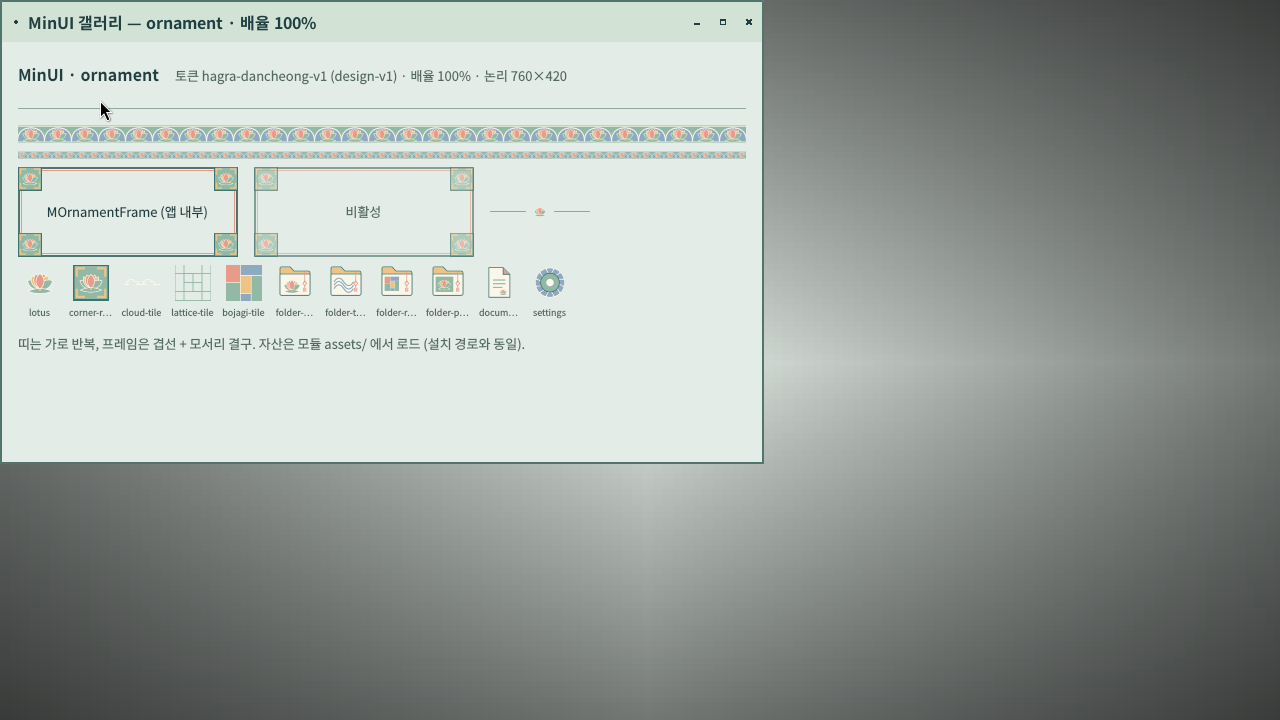
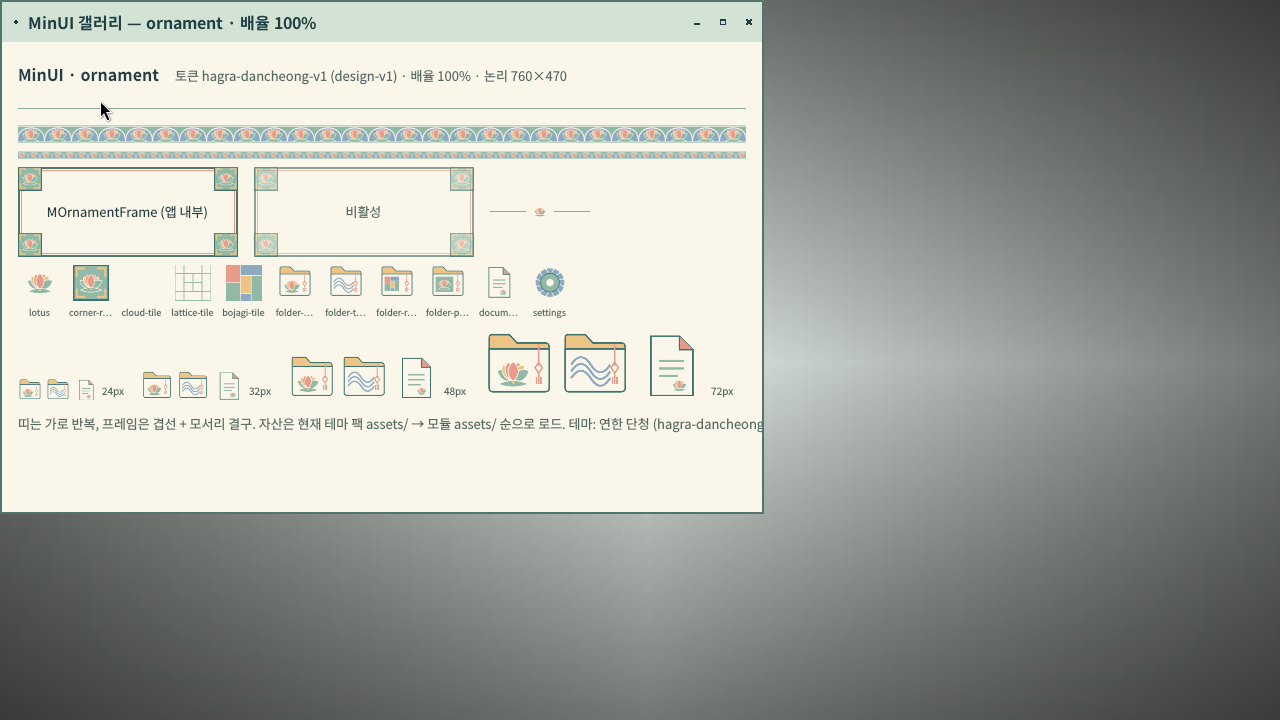
H2: boot test checks in-image theme switch and restore after reboot; contrast table; gallery folder sizes
- tests/image/boot_test.py: hagra-theme list/apply deep → saved in ~/.config/minos/theme.conf → panel checked with deep tokens;
  after reboot the selection is restored, then reset to default and checked again.
- tests/shell/check_screenshot.py: load_tokens() to switch the reference token set.
- Gallery ornament: folder/document icons at 24/32/48/72 px.
- UI_FOUNDATION §7.3: role-pair contrast ratios for both themes.

Claude-Session: https://claude.ai/code/session_01UHELcFjk2sEME5NpDwdxkP

diff --git a/libs/minui/gallery/Gallery.qml b/libs/minui/gallery/Gallery.qml
@@ -10,7 +10,7 @@ Window {
     readonly property string mixed: "보고서_2026년3분기_v2 Final (김민수) 10월23일.pdf"
     readonly property string longText: "하그라는 한국의 미감과 생활에 대한 이해를 바탕으로, 누구나 자기 일을 편안하게 해낼 수 있도록 만드는 운영체제입니다. This sentence mixes Hangul, Latin letters and digits 1234567890 to verify line wrapping, baseline alignment and glyph fallback across fonts at 100 %, 150 % and 200 % scale."
     title: "MinUI 갤러리 — " + section + " · 배율 " + Math.round(previewScale * 100) + "%"
-    width: 760; height: 420
+    width: 760; height: 470
     color: Theme.surface   // 본문 면. bg 는 바탕화면 색이라 어두운 테마에서 글자가 읽히지 않는다
     visible: true
 
@@ -20,7 +20,7 @@ Window {
 
         Row { spacing: Theme.paddingLarge
             MLabel { text: "MinUI · " + win.section; font.bold: true; font.pixelSize: Theme.fontSizeTitle }
-            MLabel { text: "토큰 " + Theme.tokenSet + " (" + Theme.tokenStatus + ") · 배율 " + Math.round(previewScale * 100) + "% · 논리 760×420"; muted: true; font.pixelSize: Theme.fontSizeSmall; anchors.verticalCenter: parent.verticalCenter }
+            MLabel { text: "토큰 " + Theme.tokenSet + " (" + Theme.tokenStatus + ") · 배율 " + Math.round(previewScale * 100) + "% · 논리 760×470"; muted: true; font.pixelSize: Theme.fontSizeSmall; anchors.verticalCenter: parent.verticalCenter }
         }
         MSeparator { width: parent.width }
 
@@ -169,7 +169,14 @@ Window {
                         MIcon { id: ai; name: modelData; size: 36; anchors.horizontalCenter: parent.horizontalCenter }
                         MLabel { text: ai.ready ? modelData : modelData + " ✗"; font.pixelSize: 9; color: ai.ready ? Theme.textMuted : Theme.danger; width: 43; horizontalAlignment: Text.AlignHCenter } } }
             }
-            MLabel { text: "띠는 가로 반복, 프레임은 겹선 + 모서리 결구. 자산은 모듈 assets/ 에서 로드 (설치 경로와 동일)."; muted: true; font.pixelSize: Theme.fontSizeSmall }
+            Row { spacing: Theme.paddingLarge   // 폴더 실루엣·종류 표시의 크기별 가독성 (24/32/48/72)
+                Repeater { model: [24, 32, 48, 72]; delegate: Row { required property int modelData; spacing: 4; anchors.bottom: parent.bottom
+                    MIcon { name: "folder-writing"; size: modelData; anchors.bottom: parent.bottom }
+                    MIcon { name: "folder-translation"; size: modelData; anchors.bottom: parent.bottom }
+                    MIcon { name: "document"; size: modelData; anchors.bottom: parent.bottom }
+                    MLabel { text: modelData + "px"; muted: true; font.pixelSize: 10; anchors.bottom: parent.bottom } } }
+            }
+            MLabel { text: "띠는 가로 반복, 프레임은 겹선 + 모서리 결구. 자산은 현재 테마 팩 assets/ → 모듈 assets/ 순으로 로드. 테마: " + Theme.themeName + " (" + Theme.themeId + ")"; muted: true; font.pixelSize: Theme.fontSizeSmall; wrap: true; width: parent.width }
         }
         // ---- 조작 아이콘 ----
         Column { visible: win.section === "icons"; spacing: Theme.paddingLarge; width: parent.width

diff --git a/tests/image/boot_test.py b/tests/image/boot_test.py
@@ -233,6 +233,26 @@ def main():
         check_screenshot.check_foot(Image.open(png).convert("RGB"))
         q.sh("pkill foot")
 
+        step("테마 전환: 깊은 단청 선택 (사용자 설정 저장, 셸·labwc·배경 즉시 반영)")
+        asmin_home = "sudo -u min env HOME=/home/min XDG_RUNTIME_DIR=/run/user/1000 WAYLAND_DISPLAY=wayland-0 "
+        deep_tokens = os.path.join(REPO, "build", "themes", "hagra-dancheong-deep", "tokens.json")
+        light_tokens = os.path.join(REPO, "design", "tokens", "hagra.tokens.json")
+        rc, out = q.sh(asmin_home + "hagra-theme list")
+        print("   themes:\n      " + out.replace("\n", "\n      "))
+        check("hagra-dancheong-deep" in out and "hagra-dancheong-light" in out, "both theme packs installed in the image")
+        rc, out = q.sh(asmin_home + "hagra-theme apply hagra-dancheong-deep")
+        check(rc == 0 and out.strip().endswith("hagra-dancheong-deep"), f"apply deep theme: {out.strip()}")
+        time.sleep(10)
+        rc, out = q.sh("cat /home/min/.config/minos/theme.conf")
+        check("theme=hagra-dancheong-deep" in out, "selection saved in ~/.config/minos/theme.conf")
+        png = q.screendump("04-theme-deep")
+        if os.path.exists(deep_tokens):
+            check_screenshot.load_tokens(deep_tokens)
+            check_screenshot.check_panel(Image.open(png).convert("RGB"))
+            check_screenshot.load_tokens(light_tokens)
+        else:
+            print("   (build/themes 없음: 깊은 단청 픽셀 검사 건너뜀)")
+
         step("전원: logind Reboot 경로 (minos-shell 와 동일한 D-Bus 호출)")
         if not args.skip_reboot:
             q.child.sendline("busctl call org.freedesktop.login1 /org/freedesktop/login1 org.freedesktop.login1.Manager Reboot b false")
@@ -251,6 +271,29 @@ def main():
                     break
                 time.sleep(5)
             check(rc == 0, f"second boot session: {out}")
+
+            step("테마 복원 확인: 재부팅 후 깊은 단청 유지 → 기본 테마로 복귀")
+            deadline = time.time() + 120
+            while time.time() < deadline:
+                rc, out = q.sh("cat /run/user/1000/minos-shell.log")
+                if "configured" in out:
+                    break
+                time.sleep(5)
+            rc, out = q.sh(asmin_home + "hagra-theme current")
+            check(out.strip().endswith("hagra-dancheong-deep"), f"theme restored after reboot: {out.strip()}")
+            rc, out = q.sh("tail -3 /home/min/.local/state/minos/session.log")
+            print("   session log:\n      " + out.replace("\n", "\n      "))
+            time.sleep(3)
+            png = q.screendump("05-theme-deep-restored")
+            if os.path.exists(deep_tokens):
+                check_screenshot.load_tokens(deep_tokens)
+                check_screenshot.check_panel(Image.open(png).convert("RGB"))
+                check_screenshot.load_tokens(light_tokens)
+            rc, out = q.sh(asmin_home + "hagra-theme reset")
+            check(out.strip().endswith("hagra-dancheong-light"), f"reset to default: {out.strip()}")
+            time.sleep(10)
+            png = q.screendump("06-theme-light-again")
+            check_screenshot.check_panel(Image.open(png).convert("RGB"))
 
         step("전원: PowerOff")
         q.child.sendline("busctl call org.freedesktop.login1 /org/freedesktop/login1 org.freedesktop.login1.Manager PowerOff b false")

diff --git a/tests/shell/check_screenshot.py b/tests/shell/check_screenshot.py
@@ -15,8 +15,6 @@ REPO = os.path.dirname(os.path.dirname(os.path.dirname(os.path.abspath(__file__)
 _tok_path = os.environ.get("HAGRA_CHECK_TOKENS") or os.path.join(REPO, "design", "tokens", "hagra.tokens.json")
 if "--tokens" in sys.argv:
     _i = sys.argv.index("--tokens"); _tok_path = sys.argv[_i + 1]; del sys.argv[_i:_i + 2]
-with open(_tok_path, encoding="utf-8") as f:
-    TOK = json.load(f)
 
 
 def rgb(hexstr):
@@ -26,20 +24,28 @@ def rgb(hexstr):
     return tuple(int(h[i:i + 2], 16) for i in (0, 2, 4))
 
 
-C = TOK["color"]
-SURFACE = rgb(C["surface"])
-PANEL = rgb(C.get("panel", C["surface"]))          # 패널 바탕 (역할 토큰; 없으면 surface)
-PANEL_DARK = (0.299 * PANEL[0] + 0.587 * PANEL[1] + 0.114 * PANEL[2]) < 128
-OCHRE = rgb(C.get("ochre", C["accent"]))
-BG = rgb(C["bg"])
-BORDER = rgb(C["border"])
-BORDER_STRONG = rgb(C["borderStrong"])
-ACCENT = rgb(C["accent"])
-SELECTION = rgb(C["selection"])
-S = TOK["size"]
-PANEL_H = S["panelHeight"]
-BAND_H = S["panelBandHeight"]
-BORDER_W = S["borderWidth"]
+def load_tokens(path):
+    """검사 기준 토큰을 바꾼다 (테마별 검사: 부팅 테스트가 깊은 단청 전환 뒤 호출)."""
+    global TOK, C, SURFACE, PANEL, PANEL_DARK, OCHRE, BG, BORDER, BORDER_STRONG, ACCENT, SELECTION, S, PANEL_H, BAND_H, BORDER_W
+    with open(path, encoding="utf-8") as f:
+        TOK = json.load(f)
+    C = TOK["color"]
+    SURFACE = rgb(C["surface"])
+    PANEL = rgb(C.get("panel", C["surface"]))          # 패널 바탕 (역할 토큰; 없으면 surface)
+    PANEL_DARK = (0.299 * PANEL[0] + 0.587 * PANEL[1] + 0.114 * PANEL[2]) < 128
+    OCHRE = rgb(C.get("ochre", C["accent"]))
+    BG = rgb(C["bg"])
+    BORDER = rgb(C["border"])
+    BORDER_STRONG = rgb(C["borderStrong"])
+    ACCENT = rgb(C["accent"])
+    SELECTION = rgb(C["selection"])
+    S = TOK["size"]
+    PANEL_H = S["panelHeight"]
+    BAND_H = S["panelBandHeight"]
+    BORDER_W = S["borderWidth"]
+
+
+load_tokens(_tok_path)
 LAUNCHER_W, LAUNCHER_H = 360, 440
 POWER_W = 240
 

diff --git a/docs/UI_FOUNDATION.md b/docs/UI_FOUNDATION.md
@@ -255,6 +255,39 @@ tools/theme      hagra-theme CLI     list | current | apply ID | reset | sync | 
 `Theme.isDark(color)` 로 면을 판정해 `onDark`/`light` 를 정한다. 연한 단청에서는 모두 밝은 면이므로 변형이 쓰이지 않는다(H1 캡처와 픽셀 동일).
 창 본문 바탕은 어느 테마에서도 `surface` 다. `bg` 는 바탕화면 색이므로 창 본문에 쓰지 않는다 (H2 에서 갤러리·메모 장면·창 모형을 수정).
 
+#### 역할별 대비 (WCAG 상대 휘도, 토큰 값으로 계산; 2026-10-26)
+
+| 테마 | 역할 | 바탕 | 전경 | 대비 |
+|---|---|---|---|---|
+| 연한 단청 | 본문 | #FAF6EA | #203F42 | 10.50:1 |
+| 연한 단청 | 보조 본문 | #FAF6EA | #536963 | 5.45:1 |
+| 연한 단청 | 비활성 글자 | #FAF6EA | #79867E | 3.52:1 |
+| 연한 단청 | 패널 | #FAF6EA | #203F42 | 10.50:1 |
+| 연한 단청 | 패널 보조 | #FAF6EA | #536963 | 5.45:1 |
+| 연한 단청 | 사이드바 | #E3ECE6 | #203F42 | 9.40:1 |
+| 연한 단청 | 선택 | #F8E7B8 | #203F42 | 9.25:1 |
+| 연한 단청 | 활성 제목 | #D2E2D5 | #203F42 | 8.42:1 |
+| 연한 단청 | 비활성 제목 | #E5EBE0 | #536963 | 4.85:1 |
+| 연한 단청 | 기본 버튼 | #28717B | #FFFFFF | 5.62:1 |
+| 연한 단청 | 오류 글자 | #FAF6EA | #A54042 | 5.70:1 |
+| 연한 단청 | 포커스 링/본문 | #FAF6EA | #28717B | 5.20:1 |
+| 연한 단청 | 포커스 링/패널 | #FAF6EA | #FAF6EA | 1.00:1 |
+| 깊은 단청 | 본문 | #F2EADB | #20352E | 10.91:1 |
+| 깊은 단청 | 보조 본문 | #F2EADB | #4D6055 | 5.63:1 |
+| 깊은 단청 | 비활성 글자 | #F2EADB | #788178 | 3.37:1 |
+| 깊은 단청 | 패널 | #183C35 | #F2EADB | 10.12:1 |
+| 깊은 단청 | 패널 보조 | #183C35 | #C9D3C6 | 7.84:1 |
+| 깊은 단청 | 사이드바 | #28574A | #F2EADB | 6.88:1 |
+| 깊은 단청 | 선택 | #BDD7C6 | #20352E | 8.51:1 |
+| 깊은 단청 | 활성 제목 | #28574A | #F2EADB | 6.88:1 |
+| 깊은 단청 | 비활성 제목 | #52695A | #F2EADB | 4.98:1 |
+| 깊은 단청 | 기본 버튼 | #28574A | #F2EADB | 6.88:1 |
+| 깊은 단청 | 오류 글자 | #F2EADB | #A52E20 | 5.83:1 |
+| 깊은 단청 | 포커스 링/본문 | #F2EADB | #203C7A | 8.83:1 |
+| 깊은 단청 | 포커스 링/패널 | #183C35 | #F2EADB | 10.12:1 |
+
+비활성 글자는 의도적으로 4.5:1 미만(동작 차단을 함께 표시). 연한 단청의 "포커스 링/패널" 1.00:1 은 패널이 밝아 `focusRingOnDark` 가 쓰이지 않기 때문이다(밝은 면에서는 `focusRing` 5.20:1).
+
 ### 7.4 설정 → 모양 → 테마 (실제 동작)
 
 `minos-shell --appearance` 또는 실행 메뉴의 "모양" 버튼이 `shell/qml/AppearanceWindow.qml` 을 연다 (labwc 장식의 일반 창).
